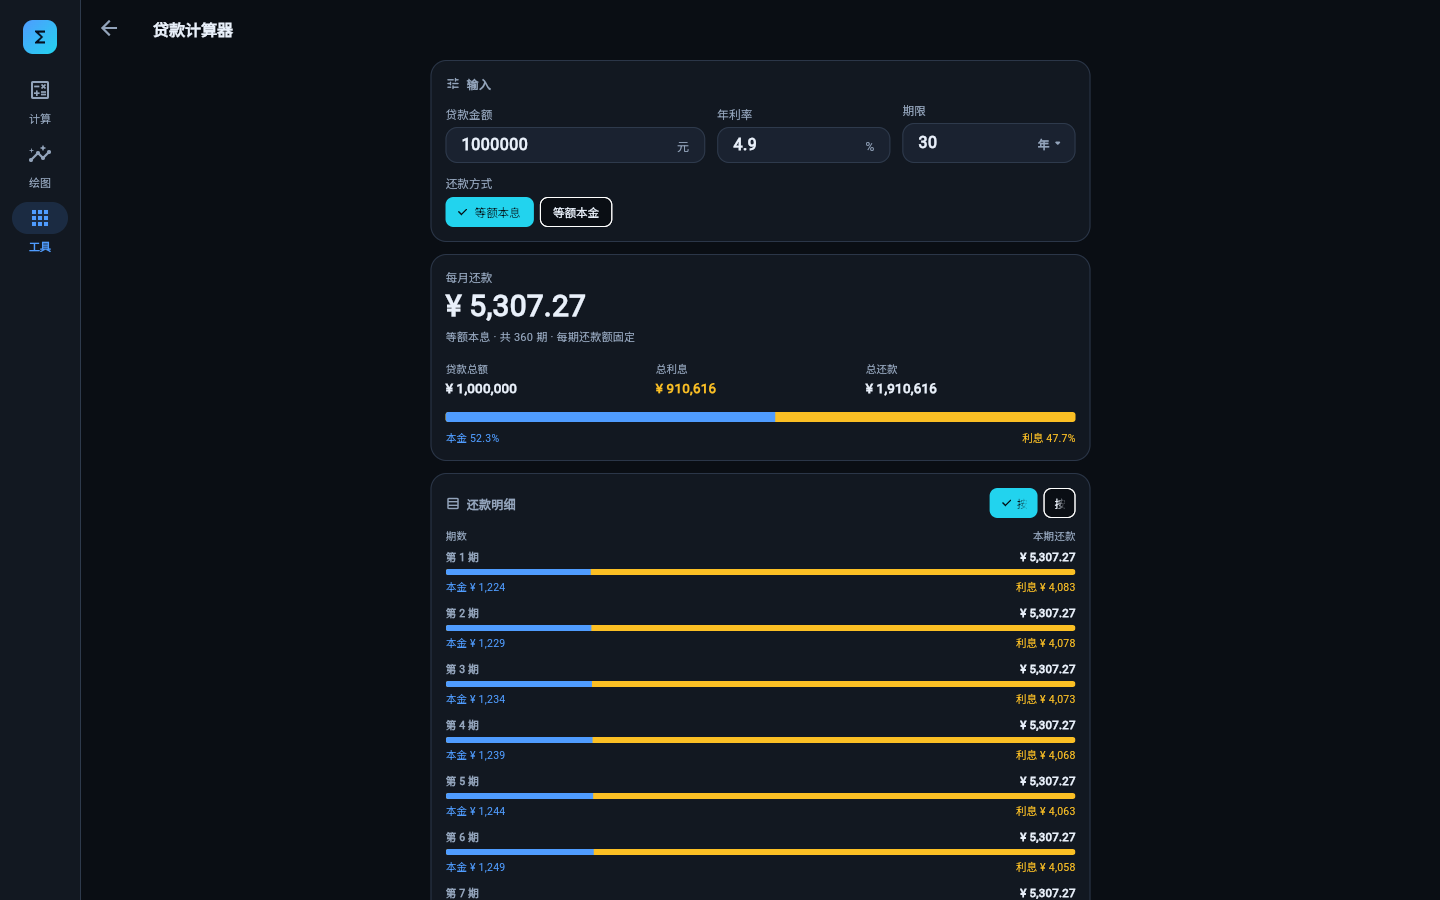
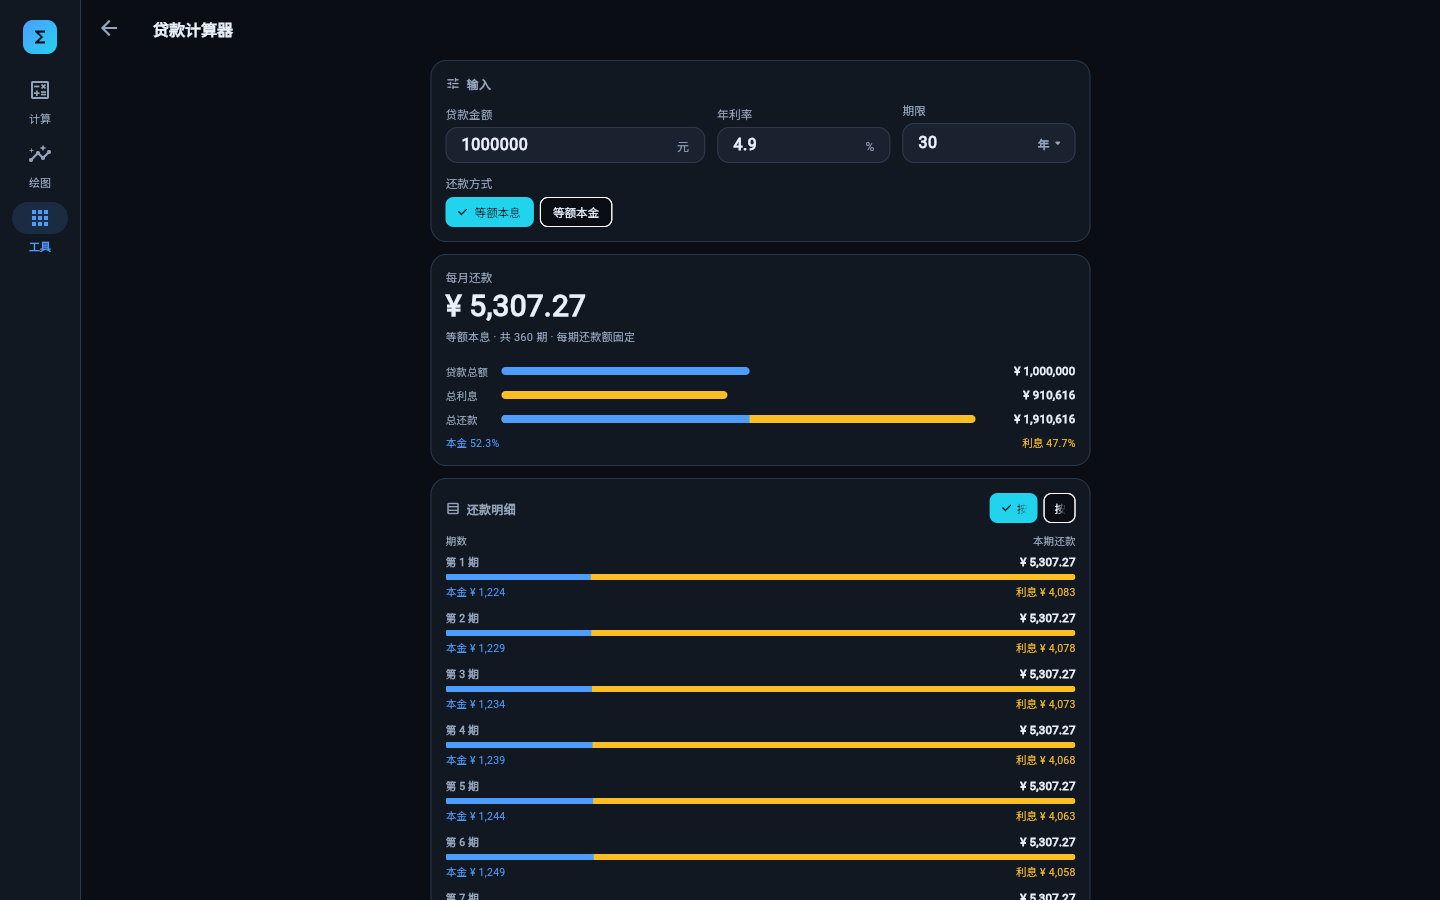
贷款计算器金额条按金额区分长度；利率工具文案去掉重复的「每」
贷款计算器：
- 汇总区原来是一条永远满幅的百分比条，看不出金额差距。改成三行对比条
  AmountBar（贷款总额 / 总利息 / 总还款），条长按「金额 ÷ 总还款」缩放，
  总还款那条再拆成蓝色本金 + 黄色利息；实测 100 万 30 年 4.9% 下
  贷款总额 247px、总利息 225px、总还款 472px，比例正好对上 52.3% / 47.7%
- 原来的三栏 _Stat 数字行并入金额条右侧，信息不再重复

利率计算：
- 输入框标题写成 '每收益'，而 everyLabel 本身已含「每」，
  渲染成「每每天收益 / 每每月收益 / 每每年收益」，改为 '收益'
  （每天 / 每月 / 每年收益）

测试：widget_test 增加金额条长度断言（总还款 > 贷款总额 > 总利息，
且总还款 / 总利息 ≈ 1910616 / 910616）与「每天收益 / 每月收益」文案断言
（同时断言不再出现「每每天收益」「每每月收益」）；README 与
docs/screenshots（loan.png、interest.png）同步。

Changed region(s): [[0.3125, 0.4044, 0.75, 1.0]]

diff --git a/lib/ui/tools/loan/loan_page.dart b/lib/ui/tools/loan/loan_page.dart
@@ -305,34 +305,33 @@ class _Summary extends StatelessWidget {
                     '月供逐月递减 ¥ ${formatMoney(decrease)}',
           style: const TextStyle(color: AppColors.textSecondary, fontSize: 11),
         ),
-        const SizedBox(height: 16),
-        Row(
-          children: [
-            Expanded(
-              child: _Stat(
-                label: '贷款总额',
-                value: '¥ ${formatMoney(result.amount, decimals: 0)}',
-                color: AppColors.textPrimary,
-              ),
-            ),
-            Expanded(
-              child: _Stat(
-                label: '总利息',
-                value: '¥ ${formatMoney(result.totalInterest, decimals: 0)}',
-                color: loanInterestColor,
-              ),
-            ),
-            Expanded(
-              child: _Stat(
-                label: '总还款',
-                value: '¥ ${formatMoney(result.totalPayment, decimals: 0)}',
-                color: AppColors.textPrimary,
-              ),
-            ),
-          ],
+        const SizedBox(height: 18),
+        // 三行金额条：长度按金额占「总还款」的比例缩放，本金 / 利息 / 总额
+        // 一眼比出差距，而不是永远等长的百分比条
+        AmountBar(
+          key: const ValueKey('loan-bar-贷款总额'),
+          label: '贷款总额',
+          value: '¥ ${formatMoney(result.amount, decimals: 0)}',
+          ratio: result.amount / result.totalPayment,
+          color: loanPrincipalColor,
         ),
-        const SizedBox(height: 14),
-        StackedRatioBar(principalRatio: 1 - result.interestRatio, height: 10),
+        const SizedBox(height: 8),
+        AmountBar(
+          key: const ValueKey('loan-bar-总利息'),
+          label: '总利息',
+          value: '¥ ${formatMoney(result.totalInterest, decimals: 0)}',
+          ratio: result.interestRatio,
+          color: loanInterestColor,
+        ),
+        const SizedBox(height: 8),
+        AmountBar(
+          key: const ValueKey('loan-bar-总还款'),
+          label: '总还款',
+          value: '¥ ${formatMoney(result.totalPayment, decimals: 0)}',
+          ratio: 1,
+          color: loanPrincipalColor,
+          interestRatio: result.interestRatio,
+        ),
         const SizedBox(height: 8),
         Row(
           children: [
@@ -346,6 +345,92 @@ class _Summary extends StatelessWidget {
               style: const TextStyle(color: loanInterestColor, fontSize: 10.5),
             ),
           ],
+        ),
+      ],
+    );
+  }
+}
+
+/// 金额对比条：条的长度按 [ratio]（相对最长那一条）缩放，
+/// 传 [interestRatio] 时画成「本金 + 利息」双色条。
+class AmountBar extends StatelessWidget {
+  const AmountBar({
+    super.key,
+    required this.label,
+    required this.value,
+    required this.ratio,
+    required this.color,
+    this.interestRatio,
+  });
+
+  /// 左侧标签（贷款总额 / 总利息 / 总还款）。
+  final String label;
+
+  /// 右侧金额文本。
+  final String value;
+
+  /// 条长占比（0~1），一般以总还款为 1。
+  final double ratio;
+
+  /// 单色条的颜色；双色条时代表本金部分。
+  final Color color;
+
+  /// 非空时画成双色条，本金占 `1 - interestRatio`。
+  final double? interestRatio;
+
+  @override
+  Widget build(BuildContext context) {
+    final interest = interestRatio;
+    return Row(
+      children: [
+        SizedBox(
+          width: 56,
+          child: Text(
+            label,
+            style: const TextStyle(
+              color: AppColors.textSecondary,
+              fontSize: 10.5,
+            ),
+          ),
+        ),
+        Expanded(
+          child: Align(
+            alignment: Alignment.centerLeft,
+            child: FractionallySizedBox(
+              widthFactor: ratio.clamp(0.0, 1.0),
+              child: SizedBox(
+                height: 8,
+                child: interest == null
+                    ? DecoratedBox(
+                        decoration: BoxDecoration(
+                          color: color,
+                          borderRadius: BorderRadius.circular(4),
+                        ),
+                      )
+                    : StackedRatioBar(
+                        principalRatio: 1 - interest,
+                        height: 8,
+                        radius: 4,
+                      ),
+              ),
+            ),
+          ),
+        ),
+        const SizedBox(width: 8),
+        SizedBox(
+          width: 92,
+          child: Text(
+            value,
+            maxLines: 1,
+            textAlign: TextAlign.right,
+            overflow: TextOverflow.ellipsis,
+            style: const TextStyle(
+              color: AppColors.textPrimary,
+              fontSize: 11.5,
+              fontWeight: FontWeight.w600,
+              fontFeatures: [FontFeature.tabularFigures()],
+            ),
+          ),
         ),
       ],
     );
@@ -387,42 +472,6 @@ class StackedRatioBar extends StatelessWidget {
           ),
         ),
       ),
-    );
-  }
-}
-
-class _Stat extends StatelessWidget {
-  const _Stat({required this.label, required this.value, required this.color});
-
-  final String label;
-  final String value;
-  final Color color;
-
-  @override
-  Widget build(BuildContext context) {
-    return Column(
-      crossAxisAlignment: CrossAxisAlignment.start,
-      children: [
-        Text(
-          label,
-          style: const TextStyle(
-            color: AppColors.textSecondary,
-            fontSize: 10.5,
-          ),
-        ),
-        const SizedBox(height: 3),
-        Text(
-          value,
-          maxLines: 1,
-          overflow: TextOverflow.ellipsis,
-          style: TextStyle(
-            color: color,
-            fontSize: 13.5,
-            fontWeight: FontWeight.w600,
-            fontFeatures: const [FontFeature.tabularFigures()],
-          ),
-        ),
-      ],
     );
   }
 }

diff --git a/test/widget_test.dart b/test/widget_test.dart
@@ -298,6 +298,11 @@ void main() {
     expect(find.byType(InterestPage), findsOneWidget);
     expect(find.byType(NavigationRail), findsOneWidget);
 
+    // 输入框文案不能重复「每」：每天收益 / 每月收益 / 每年收益
+    expect(find.text('每天收益'), findsOneWidget);
+    expect(find.text('每每天收益'), findsNothing);
+    expect(find.text('元 / 每天'), findsOneWidget);
+
     // 默认：本金 10000 元、日付 1 元 → 年化 3.65%
     expect(find.text('3.65%'), findsWidgets);
     expect(find.text('¥ 30.42'), findsWidgets);
@@ -308,6 +313,8 @@ void main() {
     await tester.tap(find.text('月付').first);
     await tester.pumpAndSettle();
     expect(find.text('30.42'), findsOneWidget);
+    expect(find.text('每月收益'), findsOneWidget);
+    expect(find.text('每每月收益'), findsNothing);
     expect(find.text('3.65%'), findsWidgets);
 
     // 月付改成 50 元 → 年化 6%
@@ -345,6 +352,24 @@ void main() {
     expect(find.text('¥ 910,616'), findsOneWidget);
     // 汇总条 + 每期明细条都画出来
     expect(find.byType(StackedRatioBar), findsWidgets);
+
+    // 三行金额条按金额区分长度：总还款 > 贷款总额 > 总利息
+    expect(find.byType(AmountBar), findsNWidgets(3));
+    double barWidth(String label) => tester
+        .getSize(
+          find.descendant(
+            of: find.byKey(ValueKey('loan-bar-$label')),
+            matching: find.byType(FractionallySizedBox),
+          ),
+        )
+        .width;
+    expect(barWidth('总还款'), greaterThan(barWidth('贷款总额')));
+    expect(barWidth('贷款总额'), greaterThan(barWidth('总利息')));
+    // 长度比 ≈ 金额比（1910616 / 910616 ≈ 2.1）
+    expect(
+      barWidth('总还款') / barWidth('总利息'),
+      closeTo(1910616.19 / 910616.19, 0.05),
+    );
 
     // 明细里第一期利息多于本金（等额本息前期特征）
     expect(find.text('本金 ¥ 1,224'), findsWidgets);

diff --git a/lib/ui/tools/interest/interest_page.dart b/lib/ui/tools/interest/interest_page.dart
@@ -188,7 +188,8 @@ class _InterestPageState extends State<InterestPage> {
                       const SizedBox(height: 12),
                       if (_mode == _Mode.fromPayment)
                         ToolNumberField(
-                          label: '每${_period.everyLabel}收益',
+                          // everyLabel 本身已带「每」（每天 / 每月 / 每年）
+                          label: '${_period.everyLabel}收益',
                           suffix: '元 / ${_period.everyLabel}',
                           controller: _payment,
                           allowNegative: true,
